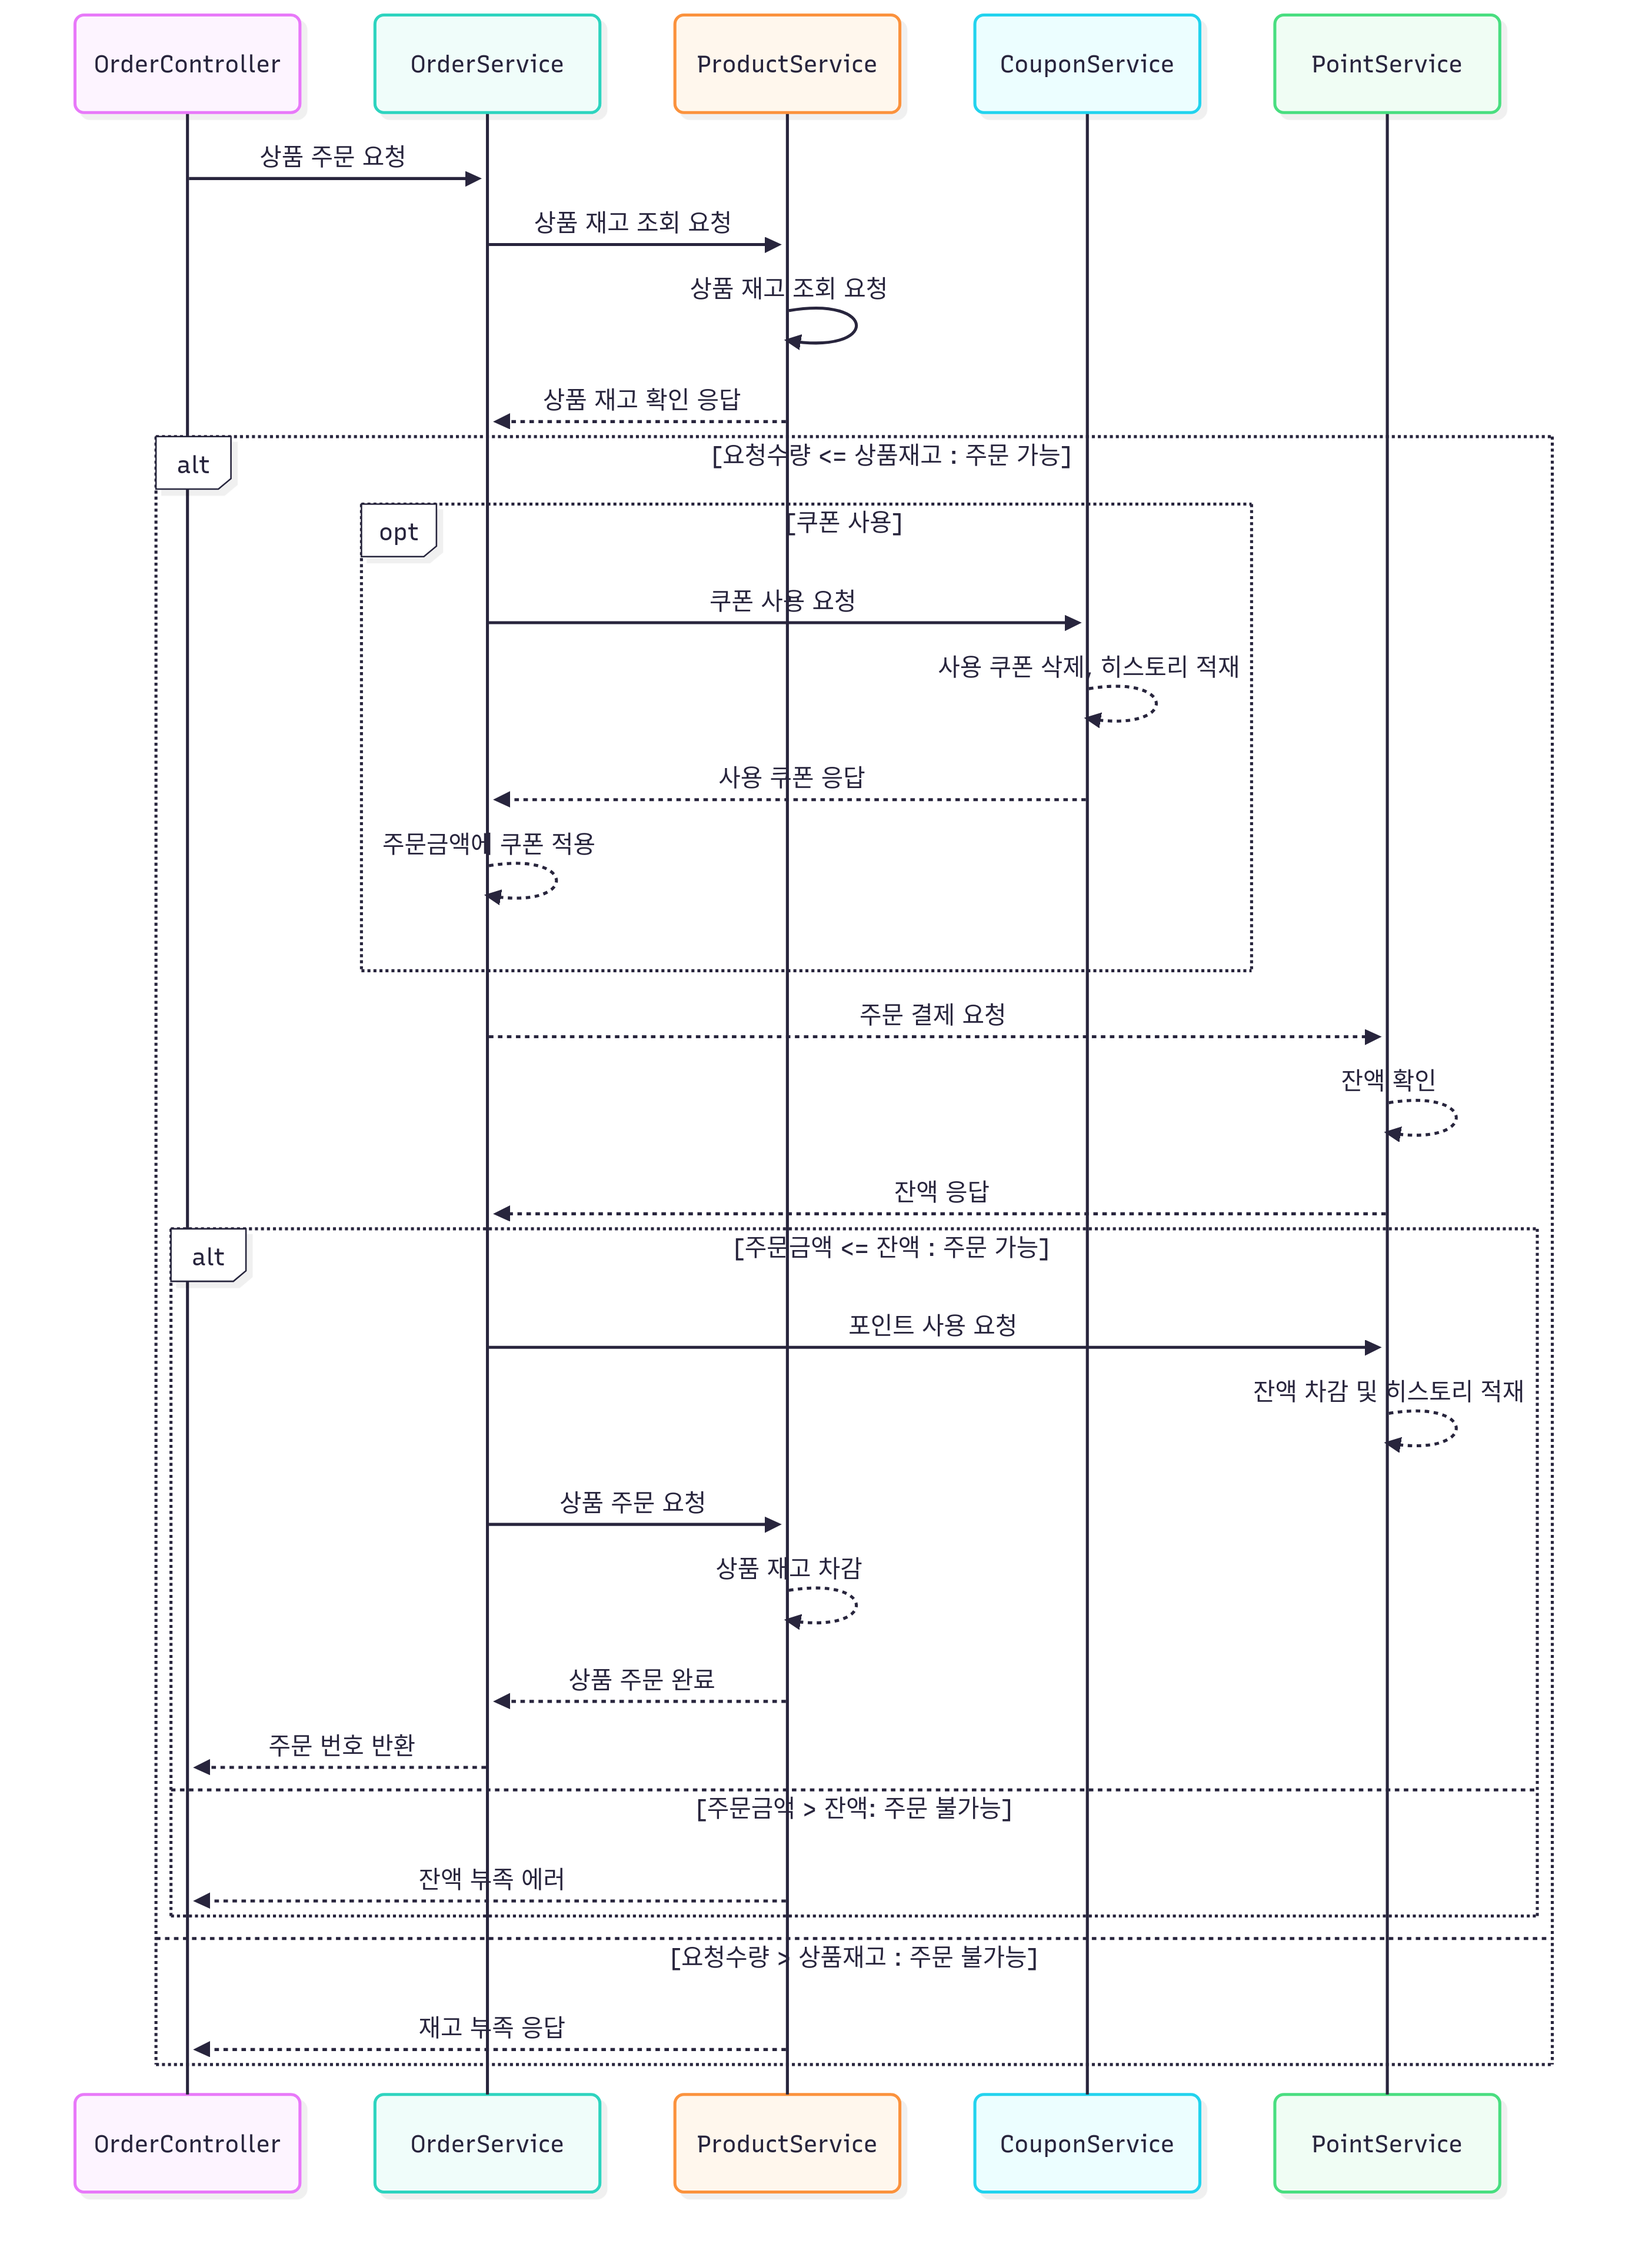
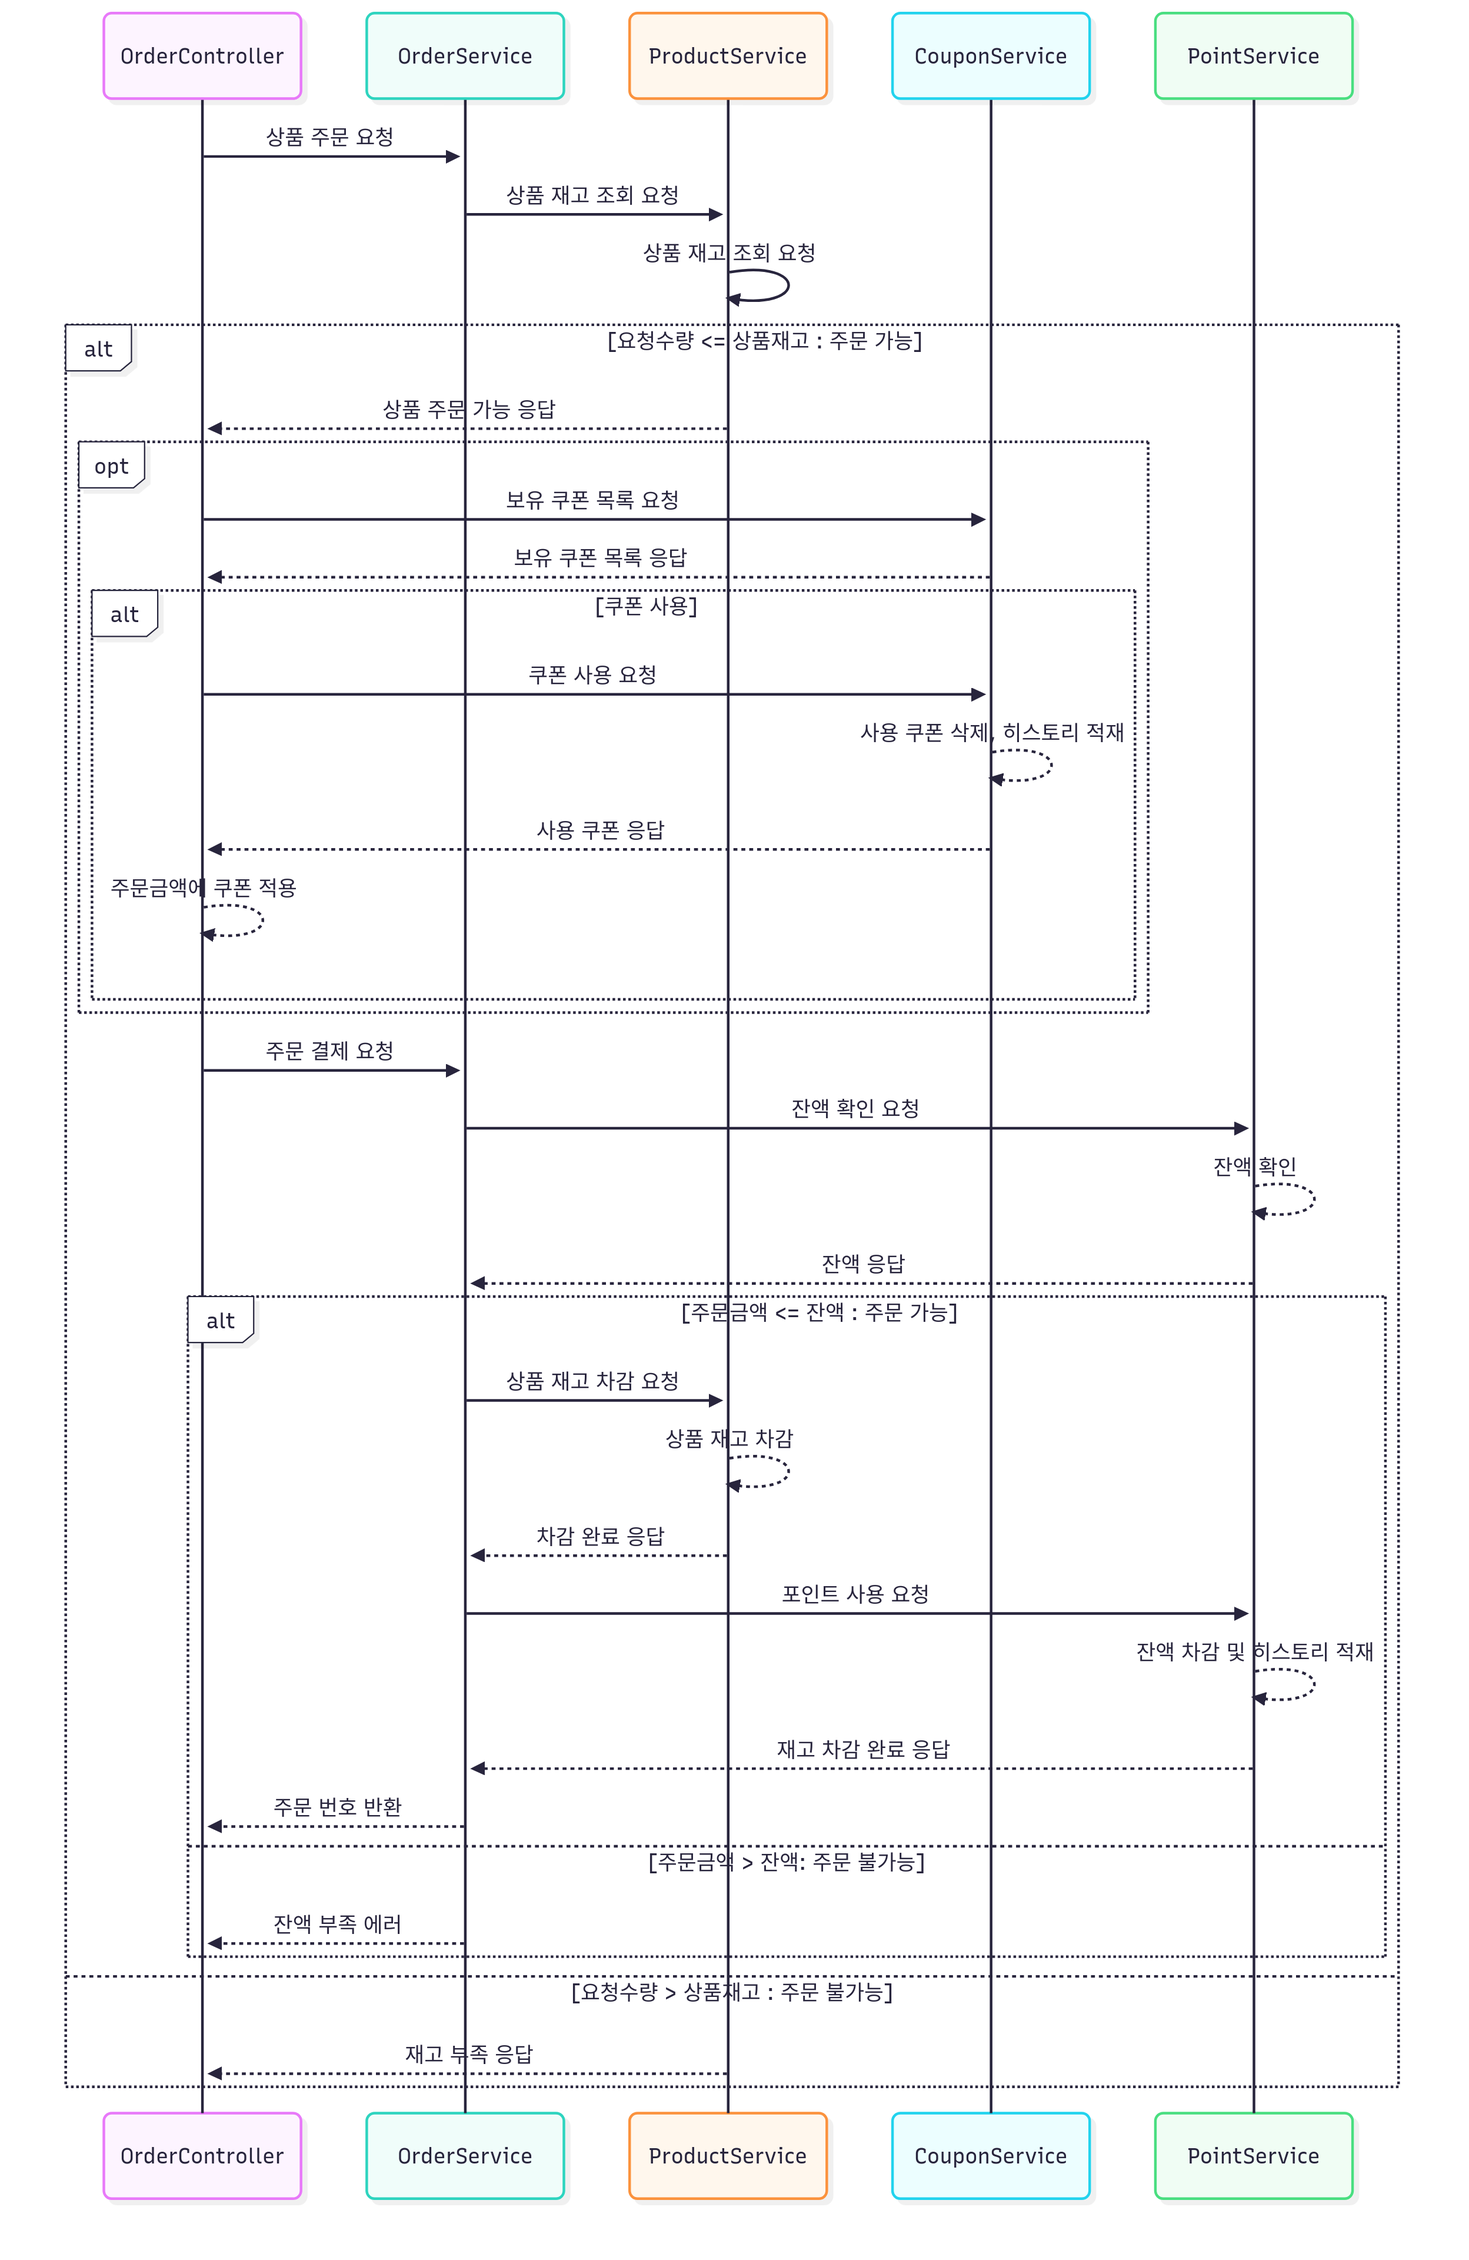
시퀀스 다이어그램 수정

diff --git a/README.md b/README.md
@@ -81,32 +81,43 @@ sequenceDiagram
     OrderController->>OrderService: 상품 주문 요청
     OrderService->>ProductService: 상품 재고 조회 요청
     ProductService->>ProductService: 상품 재고 조회 요청
-    ProductService-->>OrderService: 상품 재고 확인 응답
     alt 요청수량 <= 상품재고 : 주문 가능
-        opt 쿠폰 사용
-            OrderService->>CouponService: 쿠폰 사용 요청
+        ProductService-->>OrderController: 상품 주문 가능 응답
+        opt 
+            OrderController->>CouponService: 보유 쿠폰 목록 요청
+            CouponService-->>OrderController: 보유 쿠폰 목록 응답
+            alt 쿠폰 사용
+            OrderController->>CouponService: 쿠폰 사용 요청
             CouponService-->>CouponService: 사용 쿠폰 삭제, 히스토리 적재
-            CouponService-->>OrderService: 사용 쿠폰 응답
-            OrderService-->>OrderService: 주문금액에 쿠폰 적용
+            CouponService-->>OrderController: 사용 쿠폰 응답
+            OrderController-->>OrderController: 주문금액에 쿠폰 적용
+            end
         end
-        OrderService-->>PointService: 주문 결제 요청
+        OrderController->>OrderService: 주문 결제 요청
+        OrderService->>PointService: 잔액 확인 요청
         PointService-->>PointService: 잔액 확인
         PointService-->>OrderService: 잔액 응답
         alt 주문금액 <= 잔액 : 주문 가능
+                OrderService->>ProductService: 상품 재고 차감 요청
+                ProductService-->>ProductService: 상품 재고 차감
+                ProductService-->>OrderService: 차감 완료 응답
                 OrderService->>PointService: 포인트 사용 요청
                 PointService-->>PointService: 잔액 차감 및 히스토리 적재
-                OrderService->>ProductService: 상품 주문 요청
-                ProductService-->>ProductService: 상품 재고 차감
-                ProductService-->>OrderService: 상품 주문 완료
+                PointService-->>OrderService: 재고 차감 완료 응답
                 OrderService-->>OrderController: 주문 번호 반환
             else 주문금액 > 잔액: 주문 불가능
-                ProductService-->>OrderController: 잔액 부족 에러
+                OrderService-->>OrderController: 잔액 부족 에러
             end
     else 요청수량 > 상품재고 : 주문 불가능
         ProductService-->>OrderController: 재고 부족 응답
     end
 ```
 ![img_2.png](img_2.png)
+
+
+```sql
+
+```
 
 ## Getting Started
 
